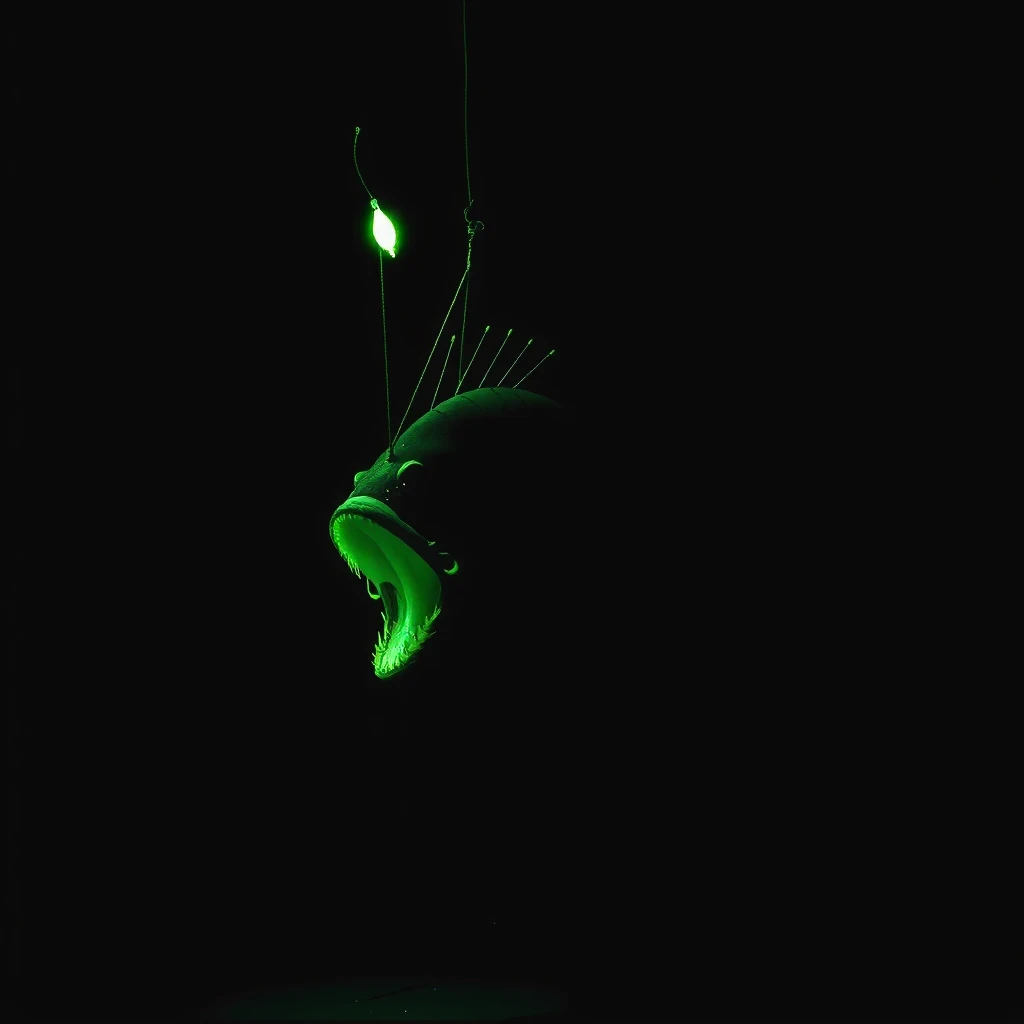
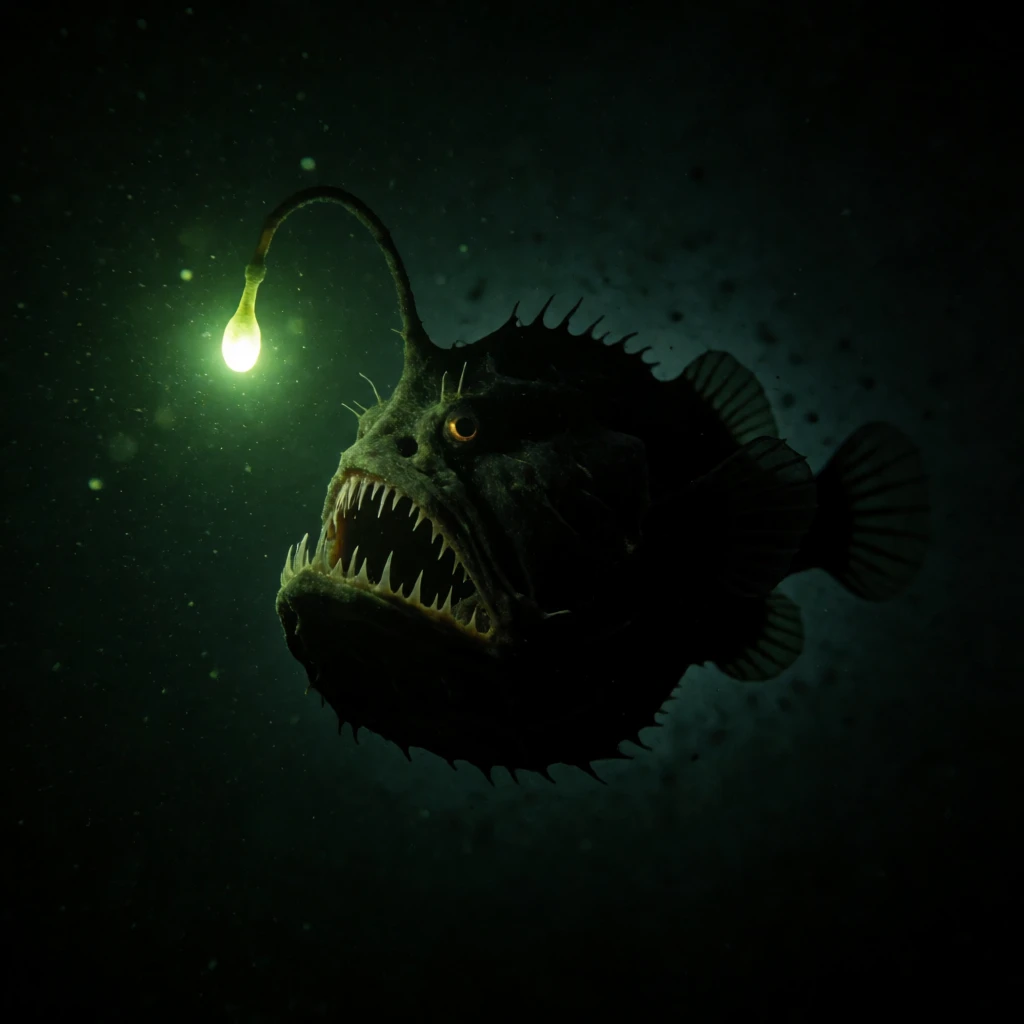
Teach the model resolver the upscaler types, and sharpen t-069
Conductor half of the kind-robots/t-070 fix, plus the first batch of generated
Cthulhuquarium art staged in projects/process/.

_LOCALPATH_PREFIXES gains LATENT_UPSCALER (latent_upscale_models/) and UPSCALER
(upscale_models/) alongside the existing types. This is the whole reason the enum gap
mattered: the prefix-stripping table is keyed by resourceType, so a latent upscaler
filed as CHECKPOINT keeps its leading directory and resolves to a path the loader
cannot find, with no error anywhere.

t-069 sharpened after reading server/api/comfy/utils/loraChain.ts, which makes it both
smaller and genuinely blocked:

- THE WIRING IS MOSTLY THERE. loraChain.ts already implements both chain shapes and
  documents why -- LoraLoader takes model + clip (SDXL lanes, where
  CheckpointLoaderSimple supplies both), LoraLoaderModelOnly takes model alone (krea2,
  flux2, kontext, LTX, where CLIP comes from a separate loader and must not be
  re-routed). Applying a LoRA to a text encoder is a routing change, not new machinery.
- THE BLOCKER IS THAT NOTHING KNOWS A LORA'S TARGET. Resource carries resourceType:
  LORA and nothing finer. Without a discriminator neither the picker nor the enqueue
  path can refuse or re-route one, and a guard would have to sniff filenames -- exactly
  the guessing that produced the flux2 bug. Recorded the order: add a nullable
  loraTarget to Resource first, backfill, then build the guard and routing on top.
[…]

diff --git a/scripts/consume_art_queue_core.py b/scripts/consume_art_queue_core.py
@@ -546,6 +546,12 @@ _LOCALPATH_PREFIXES = {
     "TEXT_ENCODER": ("text_encoders/", "clip/"),
     "VAE": ("vae/",),
     "DIFFUSION_MODEL": ("diffusion_models/", "unet/"),
+    # kind-robots/t-070 added these two. They are separate types because the
+    # loaders and directories differ: a LATENT_UPSCALER loads from
+    # models/latent_upscale_models/ via LatentUpscaleModelLoader and acts on
+    # latents; an UPSCALER loads from models/upscale_models/ and acts on pixels.
+    "LATENT_UPSCALER": ("latent_upscale_models/",),
+    "UPSCALER": ("upscale_models/",),
 }
 
 
